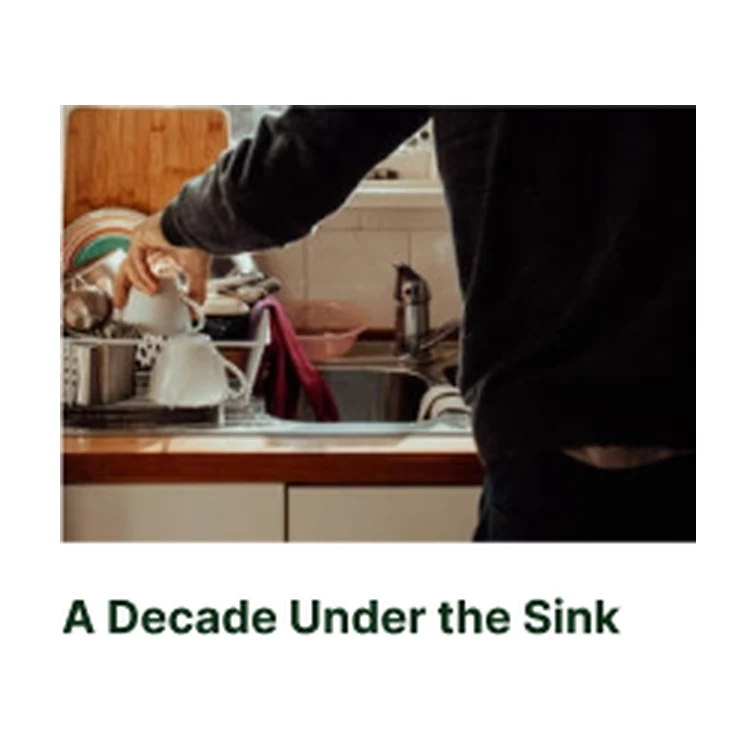
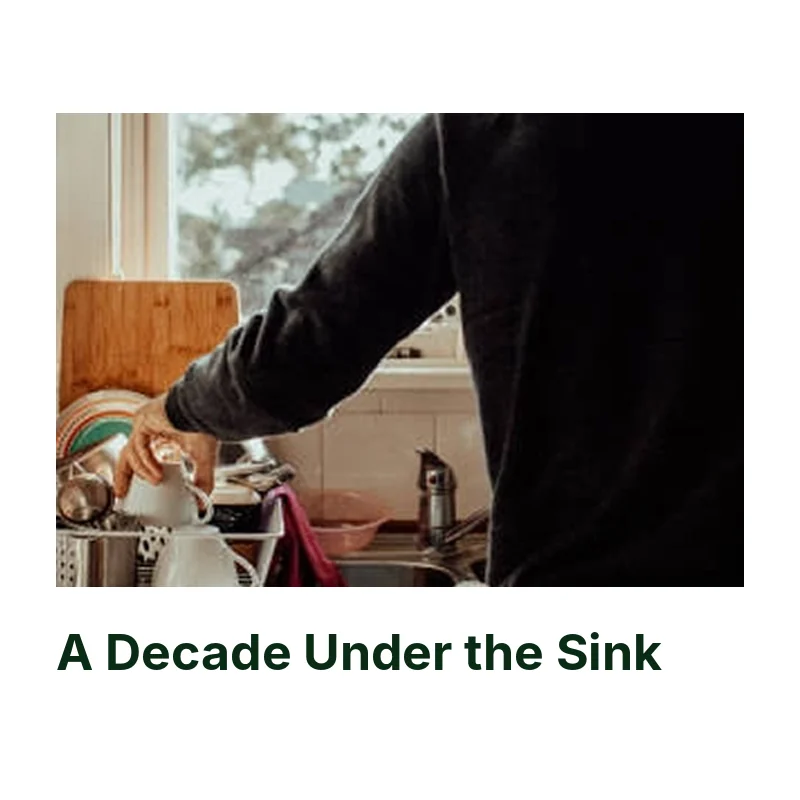
Taking Back Your Sunday: cover and CRM journey slides, sharper song-title squares from Beth's case study folder
Claude-Session: https://claude.ai/code/session_01EoUpkrpu9jkyuFbFLeqjYG

diff --git a/project-pages/taking-back-your-sunday.html b/project-pages/taking-back-your-sunday.html
@@ -47,7 +47,7 @@
     <h2>The brief</h2>
     <p>Taskrabbit wanted more first-time bookings, and the biggest hurdle was people thinking it isn't for small stuff. So I pictured Taking Back Sunday, all grown up, hosting a spring BBQ in a house that isn't ready. A few Taskers later, the band gets their Sunday back. You can too.</p>
   </div>
-  <figure class="sid-m sid-video1"><div class="sid-track"><img data-src="slideEmail" alt="Email full mockup in three beats: the hook, pick your chore, then proof and the $20 first booking offer"><img data-src="slideWhy" alt="Why it works: the insight, the idea, the fit, and song titles by category"></div></figure>
+  <figure class="sid-m sid-video1"><div class="sid-track"><img data-src="slideCover" alt="Cover slide: Taking Back Your Sunday, a spring reset visual concept, next to the garage sketch"><img data-src="slideEmail" alt="Email full mockup in three beats: the hook, pick your chore, then proof and the $20 first booking offer"><img data-src="slideWhy" alt="Why it works: the insight, the idea, the fit, and song titles by category"></div></figure>
   <p class="sid-caption">Every chore gets a song title, like A Decade Under the Sink and Cut From the Closet. I focused on email because that's where people actually book, and built it on Taskrabbit's existing template so it could ship tomorrow.</p>
   <div class="sid-gifs">
     <figure class="sid-m"><img data-src="beat1" alt="Email beat one, the hook: Taking Back Your Sunday with $20 off your first booking"></figure>
@@ -58,7 +58,7 @@
     <h2>Credits</h2>
     <p><span>Concept, Art Direction, Copy and Design: Beth&nbsp;Newman<br>A spec concept, not commissioned by or affiliated with Taskrabbit or Taking Back Sunday</span></p>
   </div>
-  <figure class="sid-m sid-stills"><div class="sid-track"><img data-src="crmTrigger" alt="CRM journey steps one and two: the weather trigger email when it first hits 65 degrees, then The List three days later"><img data-src="crmNudge" alt="CRM journey steps three and four: the nudge after an abandoned booking, then the encore thank-you with a referral"></div></figure>
+  <figure class="sid-m sid-stills"><div class="sid-track"><img data-src="slideCrm" alt="The CRM journey: one campaign idea, four moments, from the weather trigger to the encore"><img data-src="crmTrigger" alt="CRM journey steps one and two: the weather trigger email when it first hits 65 degrees, then The List three days later"><img data-src="crmNudge" alt="CRM journey steps three and four: the nudge after an abandoned booking, then the encore thank-you with a referral"></div></figure>
   <figure class="sid-m sid-app"><img data-src="sketchPhoto" alt="The hero sketch next to a real photo of someone watering plants, showing the illustrated idea and the real photography direction"></figure>
   <figure class="sid-m sid-video2"><div class="sid-track"><img data-src="slideMood" alt="Mood board of real people mid-task at home, with the Agave, Monstera, Pampas, Coral and Yellow palette"></div></figure>
   <div class="sid-cartoons">
@@ -250,8 +250,10 @@ html.sid-on body > #sid-page{position:absolute; left:0; top:0; z-index:10}
     sqWall: "tbs-sq-wall.webp",
     sqSpring: "tbs-sq-spring.webp",
     /* gallery photos (these frames scroll sideways) */
+    slideCover: "tbs-slide-cover.webp",
     slideEmail: "tbs-slide-email-mockup.webp",
     slideWhy: "tbs-slide-why-it-works.webp",
+    slideCrm: "tbs-slide-crm-journey.webp",
     crmTrigger: "tbs-crm-trigger-and-list.webp",
     crmNudge: "tbs-crm-nudge-and-encore.webp",
     slideMood: "tbs-slide-mood-board.webp",

diff --git a/project-pages/README.md b/project-pages/README.md
@@ -103,4 +103,4 @@ Photos and videos are in `assets/projects/milk-bar-crm/`, from Beth's MilkBar fo
 1. In Work New, add the Taking Back Your Sunday project page. Set its URL slug to `campaign-crm` (page settings, URL Slug), the same slug as the old site, so the address is `/work-new/campaign-crm`. The homepage print links there.
 2. Paste `taking-back-your-sunday.html` into its one Embed block.
 
-Images are in `assets/projects/taking-back-your-sunday/` (media `tbs-*`), taken from Beth's old campaign-crm page. Three frames are side-scrolling galleries: the email mockup and Why it works slides, the CRM journey (trigger and list, nudge and encore), and the mood board. The three tall frames are the email's three beats. The four squares are the song-title category cards. The homepage print uses tbs-home-thumb.webp (the tall cover sketch).
+Images are in `assets/projects/taking-back-your-sunday/` (media `tbs-*`), taken from Beth's old campaign-crm page. Three frames are side-scrolling galleries: the cover, email mockup and Why it works slides, the CRM journey (overview, trigger and list, nudge and encore), and the mood board. The three tall frames are the email's three beats. The four squares are the song-title category cards, rebuilt from the full-size photos in Beth's TaskRabbit Case Study folder. The homepage print uses tbs-home-thumb.webp (the tall cover sketch).
